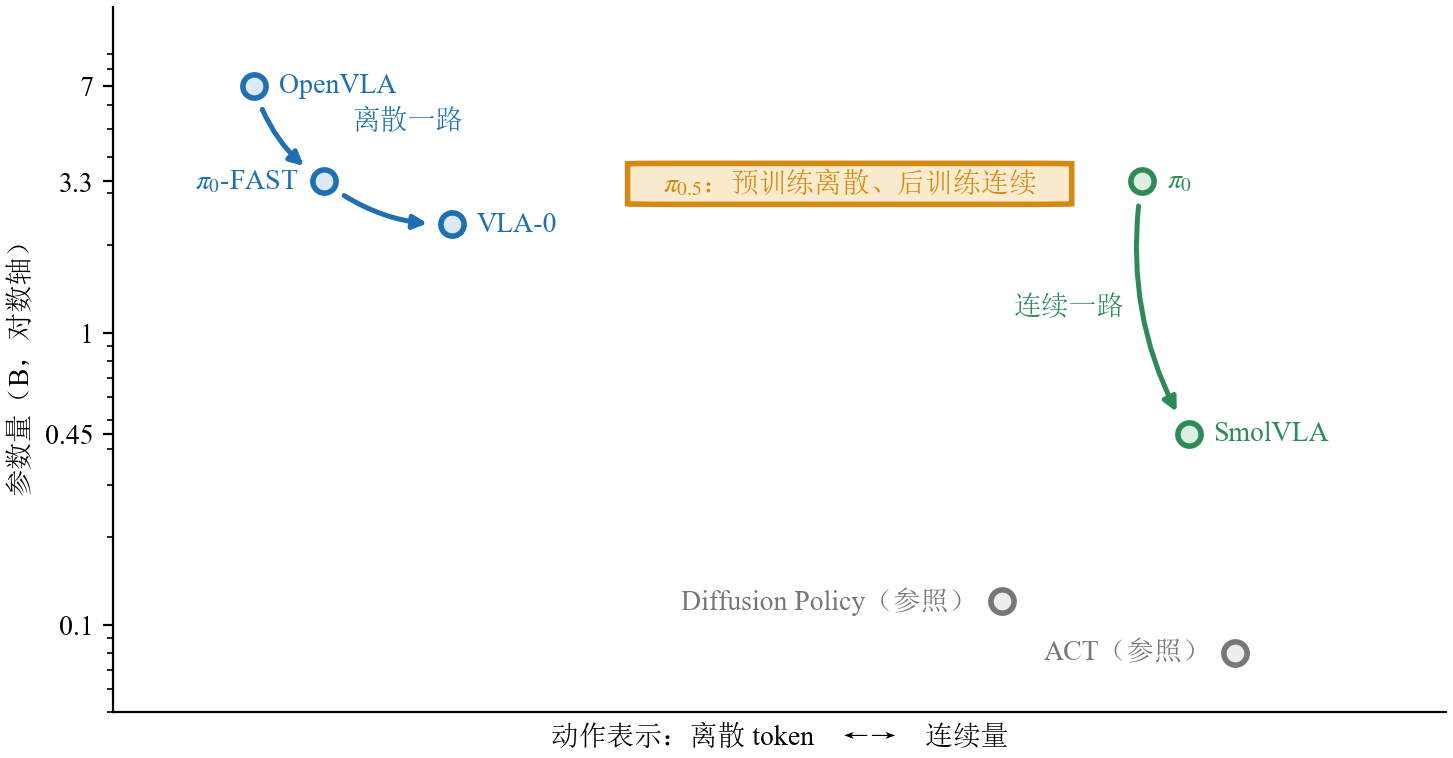
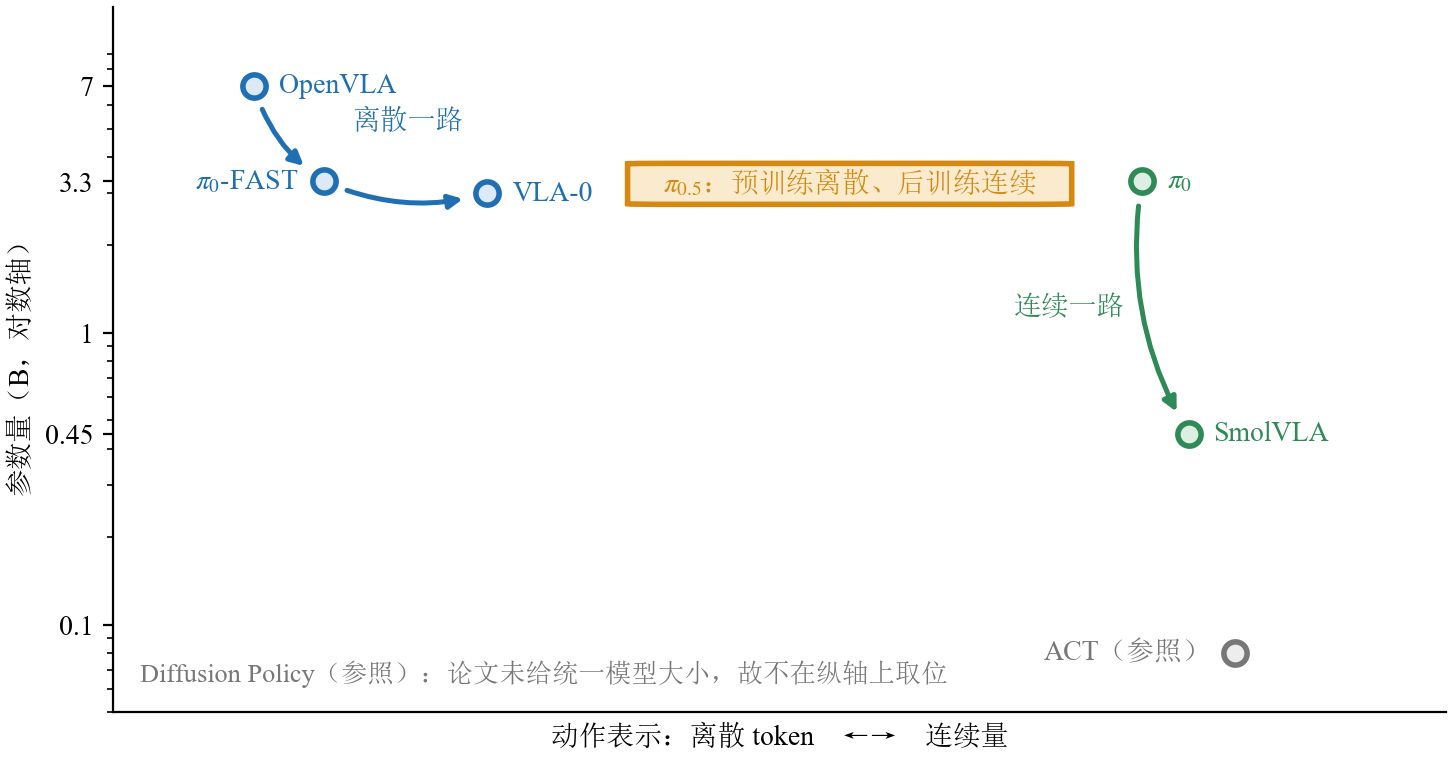
fix(figures): 图17 数据对齐正文、图18 轴名对称、删掉图21
图17 action-head-map 两处数据与正文对不上（自己画错，不是排版问题）：
- VLA-0 画在 2.35B，正文 3.6.1 对照表写的是 Qwen2.5-VL-3B
- Diffusion Policy 画在 0.12B，但正文明说"那篇没有给一个统一的模型大小，
  这一格写不出一个数"——图和正文直接矛盾。改成不占纵轴、只在图外标一行说明。

图18 two-axes-map：纵轴名原来孤零零挂在左上角、箭头与网格不相干，横轴名在最下方，
两条轴不对称。改成各自贴着自己的轴、各带一条指向增长方向的箭头。

图21 one-cut-three-lines 按作者要求删除。它上面那三条 bullet 已经把"时间 / 信息 /
职责"三刀说全，图只是把同样的话再画一遍。正文合并成一句收尾。

diff --git a/assets/figures/render_diagrams.py b/assets/figures/render_diagrams.py
@@ -804,68 +804,6 @@ def long_horizon_paradigms():
     save(fig, "lecture13", "fig13-2-long-horizon-paradigms")
 
 
-# ── 第13讲 4.1：三条线切的是同一刀，刀口位置各不相同 ───────────────────
-# 三条 bullet 用文字说不清的是**几何关系**：同一个"切开"的招式，落在三条链路的
-# 不同维度上（时间 / 信息 / 职责）。三格共用同一套视觉语法，让"同一个招式"由图形自己说。
-def one_cut_three_lines():
-    fig, ax = canvas(7.8, 3.6)
-
-    def cut(x0, y0, x1, y1):
-        """统一的刀口符号：红色虚线 + 中点一个红菱形。"""
-        ax.plot([x0, x1], [y0, y1], color=RED, linewidth=1.5, linestyle=(0, (3, 2)))
-        ax.plot((x0 + x1) / 2, (y0 + y1) / 2, marker="D", color=RED, markersize=5)
-
-    # 实时线：刀切在时间上。
-    label(ax, 0.16, 0.885, "实时线：切在时间上", BLUE, 11, True)
-    label(ax, 0.16, 0.705, "正在执行的动作块", "#999999", 10)
-    plain_box(ax, 0.03, 0.545, 0.115, 0.085, GREY, fill="#EDEDED")
-    label(ax, 0.0875, 0.5875, "已冻结", INK, 10)
-    plain_box(ax, 0.175, 0.545, 0.115, 0.085, BLUE)
-    label(ax, 0.2325, 0.5875, "可重画", INK, 10)
-    cut(0.16, 0.50, 0.16, 0.675)
-    label(ax, 0.16, 0.465, "时间轴 →", "#999999", 10)
-    label(ax, 0.16, 0.335, "刀口：软过渡段", RED, 10)
-    label(ax, 0.16, 0.245, "左边来不及改，", INK, 10)
-    label(ax, 0.16, 0.165, "右边重新生成", INK, 10)
-
-    # 记忆线：刀切在信息上。
-    label(ax, 0.5, 0.885, "记忆线：切在信息上", GREEN, 11, True)
-    label(ax, 0.435, 0.775, "每帧刷新", "#999999", 10)
-    label(ax, 0.625, 0.775, "写入与巩固", "#999999", 10)
-    plain_box(ax, 0.375, 0.665, 0.12, 0.075, BLUE)
-    label(ax, 0.435, 0.7025, "当下单帧", INK, 10)
-    plain_box(ax, 0.565, 0.665, 0.12, 0.075, GREEN)
-    label(ax, 0.625, 0.7025, "记忆库", INK, 10)
-    cut(0.53, 0.615, 0.53, 0.79)
-    # 两条汇入线走正交：竖直下来，再横到决策框顶边的两个点上。
-    for x_from, x_to in ((0.435, 0.500), (0.625, 0.560)):
-        _polyline(ax, [(x_from, 0.660), (x_from, 0.605), (x_to, 0.605), (x_to, 0.565)],
-                  EDGE, 1.4, 0.012)
-    plain_box(ax, 0.465, 0.485, 0.13, 0.075, GREY, fill="#F0F0F0")
-    label(ax, 0.53, 0.5225, "决策", INK, 10)
-    label(ax, 0.53, 0.335, "刀口：检索 + 门控融合", RED, 10)
-    label(ax, 0.53, 0.245, "两边各存各的，", INK, 10)
-    label(ax, 0.53, 0.165, "各有各的更新节奏", INK, 10)
-
-    # 人形线：刀切在职责上。
-    label(ax, 0.845, 0.885, "人形线：切在职责上", ORANGE, 11, True)
-    plain_box(ax, 0.775, 0.735, 0.14, 0.070, GREY, fill="#F0F0F0")
-    label(ax, 0.845, 0.770, "语言指令", INK, 10)
-    arrow(ax, (0.845, 0.730), (0.845, 0.705), EDGE)
-    plain_box(ax, 0.735, 0.625, 0.22, 0.075, ORANGE)
-    label(ax, 0.845, 0.6625, "S2：懂任务的大脑", INK, 10)
-    cut(0.715, 0.575, 0.975, 0.575)
-    plain_box(ax, 0.735, 0.485, 0.22, 0.075, ORANGE)
-    label(ax, 0.845, 0.5225, "S1：会走路的身体", INK, 10)
-    arrow(ax, (0.845, 0.480), (0.845, 0.450), EDGE)
-    label(ax, 0.845, 0.415, "电机指令", INK, 10)
-    label(ax, 0.845, 0.335, "刀口：潜在 verb / 分块命令", RED, 10)
-    label(ax, 0.845, 0.245, "上面不学走路，", INK, 10)
-    label(ax, 0.845, 0.165, "下面不懂任务", INK, 10)
-
-    save(fig, "lecture13", "fig13-4-one-cut-three-lines")
-
-
 # ── 第8讲 2.3：策略的四档谱系 ──────────────────────────────────────────
 # 正文用整段描述了一条谱系却没有图。图要多给的是**递进关系**：每往右一档，
 # 观测里多进来一样东西，能听懂的指令就宽一层——这条"加法"是文字列举给不出的。
@@ -1609,14 +1547,16 @@ def action_head_map():
     fig, ax = plt.subplots(figsize=(7.5, 4.3))
 
     # (x=动作表示, y=参数量 B, 名字, 标签方向)
+    # 纵坐标一律取正文 3.6.1 那张对照表里的数，不自己估：
+    # OpenVLA 7B、pi0-FAST 3.3B、VLA-0 3B（Qwen2.5-VL-3B）、pi0 3.3B、SmolVLA 0.45B、
+    # ACT ~80M（论文自报数量级）。
     points = [
         (0.10, 7.0, "OpenVLA", BLUE, "right"),
         (0.16, 3.3, "$\\pi_0$-FAST", BLUE, "left"),
-        (0.27, 2.35, "VLA-0", BLUE, "right"),
+        (0.30, 3.0, "VLA-0", BLUE, "right"),
         (0.86, 3.3, "$\\pi_0$", GREEN, "right"),
         (0.90, 0.45, "SmolVLA", GREEN, "right"),
         (0.94, 0.08, "ACT（参照）", GREY, "left"),
-        (0.74, 0.12, "Diffusion Policy（参照）", GREY, "left"),
     ]
     for x, y, name, color, side in points:
         ax.scatter([x], [y], s=70, facecolor=FILL[color], edgecolor=color, linewidth=2.0, zorder=4)
@@ -1632,8 +1572,14 @@ def action_head_map():
     ax.text(0.61, 3.28, "$\\pi_{0.5}$：预训练离散、后训练连续", ha="center", va="center",
             fontsize=10, color=ORANGE, zorder=5)
 
+    # Diffusion Policy：正文 3.6.1 明说"那篇没有给一个统一的模型大小，这一格写不出一个数"，
+    # 所以它没有纵坐标，只在横轴一侧标出它的动作表示是连续量。
+    ax.text(0.02, 0.055, "Diffusion Policy（参照）：论文未给统一模型大小，故不在纵轴上取位",
+            ha="left", va="center", fontsize=9.5, color=GREY, zorder=5,
+            transform=ax.transAxes)
+
     for (xa, ya), (xb, yb), color in (((0.10, 7.0), (0.16, 3.3), BLUE),
-                                      ((0.16, 3.3), (0.27, 2.35), BLUE),
+                                      ((0.16, 3.3), (0.30, 3.0), BLUE),
                                       ((0.86, 3.3), (0.90, 0.45), GREEN)):
         ax.annotate("", xy=(xb, yb), xytext=(xa, ya), zorder=2,
                     arrowprops=dict(arrowstyle="-|>", color=color, linewidth=1.8,
@@ -1690,8 +1636,15 @@ def two_axes_map():
                   lw=2.2 if main else 1.6)
         label(ax, x0 + (j + 0.5) * cw, cy, text, INK, 10, main)
 
-    label(ax, 0.5, 0.075, "参数更新范围：越往右，被更新的参数越少", "#555555", 10)
-    label(ax, 0.012, 0.905, "训练信号\n↑", "#888888", 10, ha="left")
+    # 两条轴名对称摆：横轴名在网格正下方居中，纵轴名竖排在网格左侧，
+    # 各自带一条指向增长方向的箭头。原来纵轴名孤零零挂在左上角、箭头与网格不相干。
+    ax.annotate("", xy=(x0 + 3 * cw, y0 - 0.052), xytext=(x0, y0 - 0.052),
+                arrowprops=dict(arrowstyle="-|>", color="#999999", linewidth=1.2))
+    label(ax, x0 + 1.5 * cw, y0 - 0.098, "参数更新范围：越往右，被更新的参数越少", INK, 10)
+    ax.annotate("", xy=(x0 - 0.150, y0 + 3 * ch), xytext=(x0 - 0.150, y0),
+                arrowprops=dict(arrowstyle="-|>", color="#999999", linewidth=1.2))
+    ax.text(x0 - 0.178, y0 + 1.5 * ch, "训练信号", rotation=90, ha="center", va="center",
+            fontsize=10, color=INK)
     save(fig, "lecture12", "fig12-1-two-axes-map")
 
 
@@ -1770,7 +1723,6 @@ abs_vs_delta_axis()
 mismatch_failures()
 q99_normalization()
 long_horizon_paradigms()
-one_cut_three_lines()
 action_space()
 discount_horizon()
 policy_distribution()
